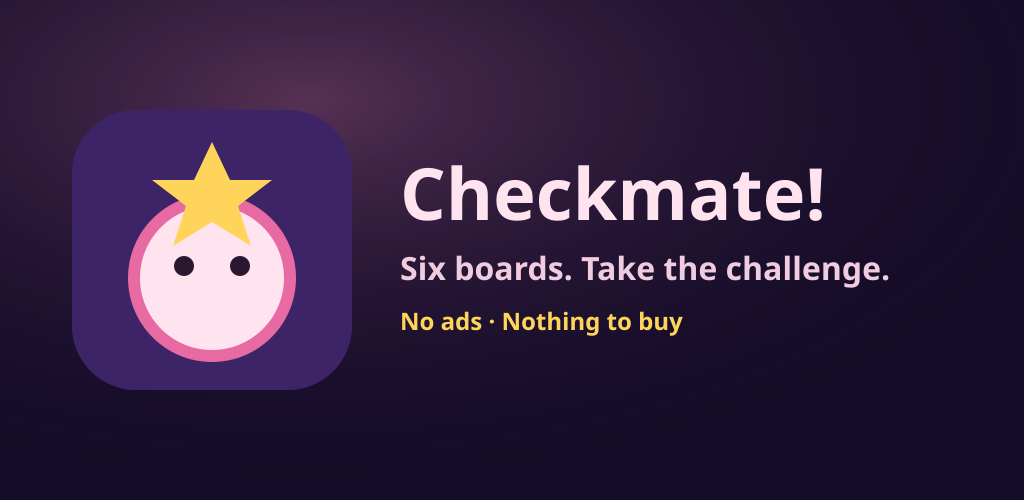
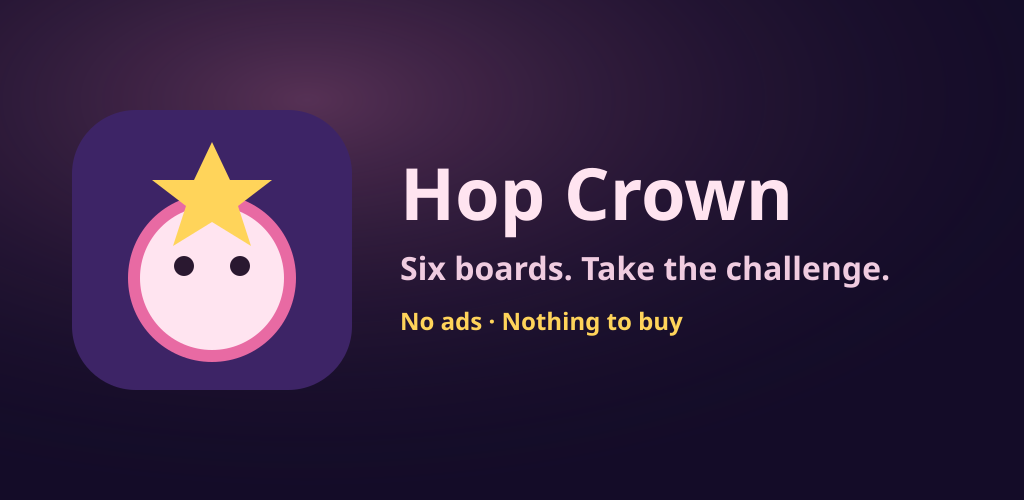
Rename the game to Hop Crown.
Checkmate is a chess word and a crowded store title. Hop Crown matches the climb: you hop, you go for the Crown. Saves and the live URL stay put.

Changed region(s): [[0.375, 0.33, 0.8125, 0.48]]

diff --git a/index.html b/index.html
@@ -8,12 +8,12 @@
     <meta name="theme-color" content="#140c28" />
     <meta name="mobile-web-app-capable" content="yes" />
     <meta name="apple-mobile-web-app-capable" content="yes" />
-    <meta name="apple-mobile-web-app-title" content="Checkmate!" />
+    <meta name="apple-mobile-web-app-title" content="Hop Crown" />
     <meta
       name="viewport"
       content="width=device-width, initial-scale=1, maximum-scale=1, user-scalable=no, viewport-fit=cover"
     />
-    <title>Checkmate!</title>
+    <title>Hop Crown</title>
     <link rel="stylesheet" href="/src/style.css" />
   </head>
   <body>
@@ -27,7 +27,7 @@
             <span class="man you"><span class="face"></span></span>
             <span class="man them"><span class="face"></span></span>
           </div>
-          <h1>Checkmate!</h1>
+          <h1>Hop Crown</h1>
           <p class="tagline">Six Boards. Take the Challenge!</p>
           <p id="climb-hint" class="quiet climb-hint">
             Each new game begins a new challenge. Each challenge is randomly seeded.
@@ -115,7 +115,7 @@
             </li>
             <li>
               <b>Today's board is shared.</b> You and your friends hop the same hard felt until midnight
-              UTC. Everyone testing Checkmate! sits on one fewest-moves list. Two Oops unless a daily twist
+              UTC. Everyone testing Hop Crown sits on one fewest-moves list. Two Oops unless a daily twist
               says otherwise. Each day rolls a few modifiers — some help you, some help the Enemy. Win it,
               pin your move count. Lowest moves sits on top.
             </li>

diff --git a/public/privacy.html b/public/privacy.html
@@ -4,7 +4,7 @@
     <meta charset="UTF-8" />
     <meta name="viewport" content="width=device-width, initial-scale=1, viewport-fit=cover" />
     <meta name="theme-color" content="#140c28" />
-    <title>Privacy · Checkmate!</title>
+    <title>Privacy · Hop Crown</title>
     <link rel="icon" type="image/svg+xml" href="./favicon.svg" />
     <style>
       :root { color-scheme: dark; }
@@ -26,10 +26,10 @@
   </head>
   <body>
     <main>
-      <p class="quiet">Checkmate! · Privacy policy · effective 3 September 2026</p>
+      <p class="quiet">Hop Crown · Privacy policy · effective 3 September 2026</p>
       <h1>Your hops stay on your device</h1>
       <p>
-        Checkmate! is a kids’ checkers climb. There are no ads, no in-app purchases, no
+        Hop Crown is a kids’ checkers climb. There are no ads, no in-app purchases, no
         tracking pixels, and no account. This page is the policy Apple and Google ask for.
       </p>
 
@@ -89,7 +89,7 @@
         optional nickname and game score for the public daily board; gameplay progress
         that never leaves the device.
       </p>
-      <p class="quiet"><a href="./">Back to Checkmate!</a></p>
+      <p class="quiet"><a href="./">Back to Hop Crown</a></p>
     </main>
   </body>
 </html>

diff --git a/public/support.html b/public/support.html
@@ -4,7 +4,7 @@
     <meta charset="UTF-8" />
     <meta name="viewport" content="width=device-width, initial-scale=1, viewport-fit=cover" />
     <meta name="theme-color" content="#140c28" />
-    <title>Support · Checkmate!</title>
+    <title>Support · Hop Crown</title>
     <link rel="icon" type="image/svg+xml" href="./favicon.svg" />
     <style>
       :root { color-scheme: dark; }
@@ -26,7 +26,7 @@
   </head>
   <body>
     <main>
-      <p class="quiet">Checkmate! · version 1.0.0</p>
+      <p class="quiet">Hop Crown · version 1.0.0</p>
       <h1>Need a hand?</h1>
       <p>
         This is a checkers climb. Six boards to the Crown, then pick a power. Today’s
@@ -54,7 +54,7 @@
       <p class="quiet">
         <a href="./privacy.html">Privacy policy</a>
         ·
-        <a href="./">Back to Checkmate!</a>
+        <a href="./">Back to Hop Crown</a>
       </p>
     </main>
   </body>

diff --git a/src/game/game.ts b/src/game/game.ts
@@ -1786,7 +1786,7 @@ export class Game {
     if (lead) {
       const who = hasName() ? ` Pinning as ${loadName()}.` : " Pick a name on the title so the board knows you.";
       lead.textContent =
-        `Everyone testing Checkmate! shares this fewest-moves list until midnight UTC. A climb is different — New climb rolls a new path just for you.${who}${
+        `Everyone testing Hop Crown shares this fewest-moves list until midnight UTC. A climb is different — New climb rolls a new path just for you.${who}${
           this.boardLive ? "" : " Shared pins need a network — this list is what this device last saw."
         }`;
     }

diff --git a/capacitor.config.ts b/capacitor.config.ts
@@ -1,8 +1,8 @@
 import type { CapacitorConfig } from "@capacitor/cli";
 
 const config: CapacitorConfig = {
-  appId: "app.checkmate.climb",
-  appName: "Checkmate!",
+  appId: "app.hopcrown.climb",
+  appName: "Hop Crown",
   webDir: "dist",
   backgroundColor: "#140c28",
   android: {
@@ -11,7 +11,7 @@ const config: CapacitorConfig = {
   ios: {
     contentInset: "automatic",
     preferredContentMode: "mobile",
-    scheme: "Checkmate",
+    scheme: "HopCrown",
   },
   plugins: {
     SplashScreen: {

diff --git a/src/game/version.ts b/src/game/version.ts
@@ -1,5 +1,5 @@
 export const APP_VERSION = "1.0.0";
-export const APP_NAME = "Checkmate!";
+export const APP_NAME = "Hop Crown";
 export const PRIVACY_URL = "https://jumpgrave-ajrr1z.netlify.app/privacy.html";
 export const SUPPORT_URL = "https://jumpgrave-ajrr1z.netlify.app/support.html";
 export const STORE_MAIL = "ravioli2332@gmail.com";

diff --git a/android/app/src/main/java/app/hopcrown/climb/MainActivity.java b/android/app/src/main/java/app/hopcrown/climb/MainActivity.java
@@ -1,4 +1,4 @@
-package app.checkmate.climb;
+package app.hopcrown.climb;
 
 import com.getcapacitor.BridgeActivity;
 

diff --git a/STORE.md b/STORE.md
@@ -1,6 +1,6 @@
 # App Store and Google Play
 
-Checkmate! is a **native wrapper** around the bundled game (Capacitor), not a window onto the website. The climb, Stars, Oops, and How to Play run with the radio off. Daily Challenge scores still talk to `https://jumpgrave-ajrr1z.netlify.app` so everyone shares one fewest-moves list.
+Hop Crown is a **native wrapper** around the bundled game (Capacitor), not a window onto the website. The climb, Stars, Oops, and How to Play run with the radio off. Daily Challenge scores still talk to `https://jumpgrave-ajrr1z.netlify.app` so everyone shares one fewest-moves list.
 
 This Linux workspace cannot sign an iPhone build. Archive on a Mac with Xcode. Android can be built on any machine with Android Studio.
 
@@ -8,7 +8,7 @@ There are **no ads and no in-app purchases**. That is on purpose for a kids’ g
 
 ## What reviewers will look for
 
-- Bundle ID `app.checkmate.climb` (change it in `capacitor.config.ts` if you already used that id).
+- Bundle ID `app.hopcrown.climb`
 - Privacy URL (must be **public**, even if the game site is passworded): `https://jumpgrave-ajrr1z.netlify.app/privacy.html`
 - Support URL: `https://jumpgrave-ajrr1z.netlify.app/support.html`
 - Contact: ravioli2332@gmail.com
@@ -36,7 +36,7 @@ There are **no ads and no in-app purchases**. That is on purpose for a kids’ g
 
 ## Google Play (Android)
 
-The Android project is already in `android/`. Package name **`app.checkmate.climb`**. Target SDK **35**. You do **not** need a Mac. You do need Android Studio (or the SDK) on your computer, a Play Console account, and a **public** privacy URL.
+The Android project is already in `android/`. Package name **`app.hopcrown.climb`**. Target SDK **35**. You do **not** need a Mac. You do need Android Studio (or the SDK) on your computer, a Play Console account, and a **public** privacy URL.
 
 Play still does not require ads or IAP.
 
@@ -55,20 +55,20 @@ npm install
 npm run android
 ```
 
-In Android Studio: **Build → Generate Signed App Bundle**. First time, create a keystore (`checkmate.jks`) and keep that file and its passwords somewhere safe — losing it means you cannot update the listing. On the first upload, enroll in **Play App Signing** (default).
+In Android Studio: **Build → Generate Signed App Bundle**. First time, create a keystore (`hopcrown.jks`) and keep that file and its passwords somewhere safe — losing it means you cannot update the listing. On the first upload, enroll in **Play App Signing** (default).
 
 High-res icon: `public/icon-512.png` (512×512). Feature graphic: `resources/play-feature.png` (1024×500). Phone screenshots: title screen + a mid-climb board, portrait, no status-bar clutter.
 
 ### 3. Store listing (paste)
 
-- **App name:** Checkmate!
+- **App name:** Hop Crown
 - **Short description (80):** `Kid-friendly checkers. Six boards to the Crown. No ads.`
 - **Full description:**
 
 ```
 Hop your pieces. Capture the Enemy. Pick a power. Beat the Crown in six boards.
 
-Checkmate! is a checkers climb for families. Each New climb rolls a fresh path. Continue waits if you close the app. Today’s Daily Challenge is the same hard board for everyone, with a fewest-moves list.
+Hop Crown is a checkers climb for families. Each New climb rolls a fresh path. Continue waits if you close the app. Today’s Daily Challenge is the same hard board for everyone, with a fewest-moves list.
 
 The climb works with the radio off. Daily pins need a network so the shared board stays fair.
 

diff --git a/README.md b/README.md
@@ -1,4 +1,4 @@
-# Checkmate!
+# Hop Crown
 
 Kid-friendly checkers with a climb. You hop **player pieces**. The other side is the **Enemy**. Capture, pick a power, and try to beat **the Crown** in six boards.
 
@@ -37,7 +37,7 @@ Share the same live link:
 
 If the site is private, they need the password (or a Netlify team login). This Cursor Preview is only on this machine — friends should use the Netlify URL, not `127.0.0.1`.
 
-Each `npm run publish` rebuilds the same link. GitHub Actions no longer deploys on every `main` push (that burned Netlify credits). Run the **Publish Checkmate** workflow by hand, or `npm run publish`, when you actually want the live site updated.
+Each `npm run publish` rebuilds the same link. GitHub Actions no longer deploys on every `main` push (that burned Netlify credits). Run the **Publish Hop Crown** workflow by hand, or `npm run publish`, when you actually want the live site updated.
 
 ## Netlify credits
 
@@ -52,7 +52,7 @@ Playing the climb in the **app** or on `npm run dev` does not use Netlify credit
 
 If you are low: in Netlify → Project configuration → Build & deploy, turn **off** auto-publish on git. One live deploy a week is plenty. Other sites on the same Netlify team share the same 300.
 
-The daily fewest-moves board is **shared** for everyone who tests Checkmate! — the live site, this preview, and a friend on their phone all sit on the same list. On a Drop with no functions, the game falls back to that same Netlify board; only a total API outage keeps scores in the local browser.
+The daily fewest-moves board is **shared** for everyone who tests Hop Crown — the live site, this preview, and a friend on their phone all sit on the same list. On a Drop with no functions, the game falls back to that same Netlify board; only a total API outage keeps scores in the local browser.
 
 ### Local
 
